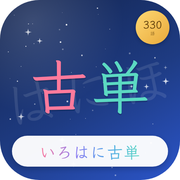
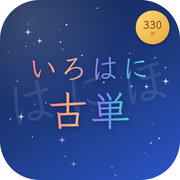
Add files via upload

diff --git a/index.html b/index.html
@@ -4,35 +4,35 @@
 <link rel="preconnect" href="https://fonts.gstatic.com" crossorigin>
 <link href="https://fonts.googleapis.com/css2?family=Klee+One:wght@400;600&family=Zen+Kaku+Gothic+New:wght@400;500;700;900&display=swap" rel="stylesheet">
 <link rel="manifest" href="manifest.webmanifest">
-<meta name="theme-color" content="#2B55C9">
+<meta name="theme-color" content="#FF4F81">
 <meta name="apple-mobile-web-app-capable" content="yes">
 <meta name="apple-mobile-web-app-title" content="いろはに古単">
 <link rel="icon" type="image/png" sizes="512x512" href="icon-512.png">
 <link rel="icon" type="image/png" sizes="192x192" href="icon-192.png">
 <link rel="apple-touch-icon" href="apple-touch-icon.png">
-<style>:root{color-scheme:light}body{margin:0;padding:0;font:14px -apple-system,BlinkMacSystemFont,sans-serif;background:#eef3fd;color:#132245}img{max-width:100%}[hidden]:not([hidden=until-found i]){display:none!important}</style>
+<style>:root{color-scheme:light}body{margin:0;padding:0;font:14px -apple-system,BlinkMacSystemFont,sans-serif;background:#fff1f5;color:#4a2233}img{max-width:100%}[hidden]:not([hidden=until-found i]){display:none!important}</style>
 </head><body>
 <style>
   :root{
-    --bg:#EEF3FD;
+    --bg:#FFF1F5;
     --surface:#FFFFFF;
-    --surface-alt:#E2EBFB;
-    --ink:#132245;
-    --ink-soft:#56648C;
-    --border:#C6D6F5;
-    --border-soft:#E2EBFB;
-    --accent:#2B55C9;
-    --accent-strong:#173C9E;
+    --surface-alt:#FFE1EA;
+    --ink:#4A2233;
+    --ink-soft:#8A5670;
+    --border:#FBC7DA;
+    --border-soft:#FDE0EB;
+    --accent:#FF4F81;
+    --accent-strong:#E23A6B;
     --accent-ink:#FFFFFF;
-    --accent-soft:#DCE6FB;
-    --success:#1E9E6B;
-    --success-soft:#DFF5EA;
-    --success-ink:#0E3F27;
+    --accent-soft:#FFE0EA;
+    --success:#2FA76B;
+    --success-soft:#E1F5E9;
+    --success-ink:#12401F;
     --danger:#E0403F;
     --danger-soft:#FBDEDD;
     --danger-ink:#5C1512;
-    --gold:#B8832A;
-    --shadow: 0 1px 2px rgba(23,60,158,.08), 0 10px 26px rgba(23,60,158,.14);
+    --gold:#C2751E;
+    --shadow: 0 1px 2px rgba(178,40,90,.06), 0 10px 26px rgba(178,40,90,.10);
   }
 
   *{box-sizing:border-box;}
@@ -369,6 +369,11 @@
     color:var(--accent-strong);
     flex:0 0 auto;
   }
+  .choice-text{
+    white-space:pre-line;
+    flex:1 1 auto;
+    min-width:0;
+  }
   .choice-btn.is-correct{
     background:var(--success-soft);
     border-color:var(--success);
@@ -406,7 +411,7 @@
     font-weight:600;
     flex:0 0 auto;
   }
-  .callout-text{ font-weight:600; }
+  .callout-text{ font-weight:600; white-space:pre-line; }
 
   #nextBtn{ width:100%; margin-top:10px; }
 
@@ -464,6 +469,7 @@
     padding:10px 10px;
     border-bottom:1px solid var(--border-soft);
     vertical-align:top;
+    white-space:pre-line;
   }
   table.mistake-table th{
     color:var(--ink-soft);
@@ -861,6 +867,9 @@ try{
 const WORDS = [{"no":1,"w":"おどろく（驚く）","m":"（はっと）気づく／（ふと）目を覚ます","cat":"verb"},{"no":2,"w":"ののしる","m":"大騒ぎする 大声で騒ぐ／評判になる 噂になる","cat":"verb"},{"no":3,"w":"ねんず（念ず）","m":"（心の中で）祈る／我慢する","cat":"verb"},{"no":4,"w":"おぼゆ（覚ゆ）","m":"（自然に）思われる／似る 似ている／思い出される／（人から）思われる","cat":"verb"},{"no":5,"w":"しのぶ（忍ぶ）","m":"＜耐え忍ぶ＞我慢する 恋心を包み隠す／＜人目を忍ぶ＞人目を避ける","cat":"verb"},{"no":6,"w":"ながむ（眺む）","m":"もの思いに沈む （もの思いに沈んで）ぼんやり見る","cat":"verb"},{"no":7,"w":"みゆ（見ゆ）","m":"＜自発の意から＞（自然と）見える おもわれる／姿を見せる 現れる／＜受け身の意から＞（人から）見られる 見せる 結婚する","cat":"verb"},{"no":8,"w":"あふ","m":"結婚する 男女が契る","cat":"verb"},{"no":9,"w":"ゐる（居る）","m":"座る 動かずにいる／＜他の動詞の連用形や助詞「て」について＞〜ている","cat":"verb"},{"no":10,"w":"ありく（歩く）","m":"動き回る 出歩く 外出する／＜動詞の連用形について＞（空間的に）（〜して）まわる （時間的に）（〜し）続ける","cat":"verb"},{"no":11,"w":"あく（飽く）","m":"満足する／＜「飽かず」の形で＞満ち足りない いやにならない","cat":"verb"},{"no":12,"w":"うつくし","m":"かわいらしい／立派だ","cat":"adj"},{"no":13,"w":"かなし","m":"＜愛し＞いとしい かわいい","cat":"adj"},{"no":14,"w":"いみじ","m":"＜連用形「いみじく」「いみじう」の形で＞とても たいそう／＜好ましい場合＞とてもすばらしい とてもうれしい／＜好ましくない場合＞とても悲しい ひどい 大変だ","cat":"adj"},{"no":15,"w":"をかし","m":"趣がある おもしろい／美しい かわいい／滑稽だ","cat":"adj"},{"no":16,"w":"よし","m":"よい すぐれている／＜「よき人」の形で＞身分が高く教養がある","cat":"adj"},{"no":17,"w":"あやし（奇し・怪し/賤し）","m":"＜奇し・怪し＞不思議だ 変だ／＜奇し・怪し＞けしからん よくない／＜賤し＞身分が低い 卑しい／＜賤し＞粗末だ みすぼらしい","cat":"adj"},{"no":18,"w":"おとなし（大人し）","m":"大人らしい 大人びている／年配だ （年長で）主だっている／（年配で）思慮分別がある","cat":"adj"},{"no":19,"w":"ゆかし","m":"見たい 聞きたい 知りたい","cat":"adj"},{"no":20,"w":"おぼつかなし","m":"ぼんやりしている はっきりしない／気がかりだ 不安だ／待ち遠しい もどかしい","cat":"adj"},{"no":21,"w":"ありがたし（有難し）","m":"めったにない／＜めったいにないほど＞立派だ すぐれている","cat":"adj"},{"no":22,"w":"めでたし","m":"すばらしい 立派だ","cat":"adj"},{"no":23,"w":"くちをし（口惜し）","m":"残念だ 期待外れだ","cat":"adj"},{"no":24,"w":"うし（憂し）","m":"つらい いやだ","cat":"adj"},{"no":25,"w":"わびし（侘びし）","m":"つらい 困ったことだ／興ざめだ もの足りない","cat":"adj"},{"no":26,"w":"あわれなり","m":"心底しみじみと感じられる","cat":"adjv"},{"no":27,"w":"おろかなり（疎かなり）","m":"おろそかだ いい加減だ／＜「言ふも」「言へば」に続けて＞（〜という）言葉では言い尽くせない","cat":"adjv"},{"no":28,"w":"ねんごろなり（懇ろなり）","m":"熱心だ 丁寧だ／親しい 親密だ","cat":"adjv"},{"no":29,"w":"つれづれなり（徒然なり）","m":"（することもなく）退屈だ 所在ない 手持ちぶさただ／（一人もの思いに沈む）しんみりともの寂しい","cat":"adjv"},{"no":30,"w":"いたづらなり（徒らなり）","m":"むだだ 役に立たない／手持ち無沙汰で暇だ","cat":"adjv"},{"no":31,"w":"としごろ（年ごろ）","m":"長年 数年（の間）","cat":"noun"},{"no":32,"w":"かたち（形・容貌）","m":"容貌 人の姿","cat":"noun"},{"no":33,"w":"かげ（影）","m":"光／姿 形","cat":"noun"},{"no":34,"w":"ほい（本意）","m":"かねてからの願い 本来の目的 宿願","cat":"noun"},{"no":35,"w":"ものがたり（物語）","m":"話 雑談 世話ばなし／（『竹取物語』『源氏物語』などの）物語","cat":"noun"},{"no":36,"w":"ふみ（文・書）","m":"手紙／漢詩 漢籍 学問","cat":"noun"},{"no":37,"w":"ほど（程）","m":"＜時間の場合＞時 時分 間／＜空間の場合＞あたり 距離 （道のり） 長さ 広さ／＜人間の場合＞身分 身の程 （分際） 年齢 間柄／＜広く一般に＞様子 程度 ほど","cat":"noun"},{"no":38,"w":"なさけ（情け）","m":"思いやり 人情／男女間の情愛 恋情／情趣を解する心 風流心","cat":"noun"},{"no":39,"w":"ちぎり（契り）","m":"約束／前世からの因縁 宿縁／男女の仲 逢瀬","cat":"noun"},{"no":40,"w":"けしき（気色）","m":"様子 そぶり／機嫌／思い 意向","cat":"noun"},{"no":41,"w":"いと","m":"とても たいそう 実に／＜下に打消をともなって＞たいして（〜ない） それほど（〜ない）","cat":"adv"},{"no":42,"w":"あまた","m":"たくさん 数多く","cat":"adv"},{"no":43,"w":"げに","m":"なるほど 本当に","cat":"adv"},{"no":44,"w":"なほ","m":"やはり","cat":"adv"},{"no":45,"w":"やがて","m":"そのまま／すぐに","cat":"adv"},{"no":46,"w":"やうやう","m":"だんだん しだいに","cat":"adv"},{"no":47,"w":"え〜打消","m":"〜できない","cat":"adv"},{"no":48,"w":"な〜そ","m":"〜（する）な 〜（し）てくれるな","cat":"adv"},{"no":49,"w":"さらに〜打消","m":"まったく〜ない 決して〜ない","cat":"adv"},{"no":50,"w":"いかで・いかでか","m":"＜疑問＞どうして（〜か）／＜反語＞どうして（〜か、いや、〜ない）／＜願望＞どうにかして（〜たい・〜てほしい・〜よう）","cat":"adv"},{"no":51,"w":"にほふ（匂ふ）","m":"美しく照り映える 美しく輝く","cat":"verb"},{"no":52,"w":"うつろふ（移ろふ）","m":"色が変わる （色が変わり）紅葉する （葉や花が）散る／（心が）移る 心変わりする","cat":"verb"},{"no":53,"w":"いぬ（往ぬ・去ぬ）","m":"行く 去る／（時が）過ぎ去る","cat":"verb"},{"no":54,"w":"あそぶ（遊ぶ）","m":"管弦を楽しむ","cat":"verb"},{"no":55,"w":"めづ（愛づ）","m":"感嘆する ほめる たたえる／愛する かわいがる 好む","cat":"verb"},{"no":56,"w":"ならふ（慣らふ・馴らふ）","m":"慣れる 習慣となる／親しむ なじむ","cat":"verb"},{"no":57,"w":"かしづく","m":"大切に養育する／大切に世話をする","cat":"verb"},{"no":58,"w":"たのむ（頼む）","m":"＜四段活用＞あてにする 期待する／＜下二段活用＞あてにさせる 期待させる","cat":"verb"},{"no":59,"w":"まもる（守る）","m":"見つめる 見守る","cat":"verb"},{"no":60,"w":"きこゆ（聞こゆ）","m":"聞こえる （自然に）耳に入る／世間に知られる 噂される 評判になる／理解できる 意味がわかる","cat":"verb"},{"no":61,"w":"おこす","m":"よこす 送ってくる","cat":"verb"},{"no":62,"w":"まうく（設く）","m":"準備する 用意する","cat":"verb"},{"no":63,"w":"いらふ（答ふ）","m":"答える 返事をする","cat":"verb"},{"no":64,"w":"わたる（渡る）","m":"行く 来る 通る／＜補助動詞として＞（時間的に）ずっと（〜する） （空間的に）一面に（〜する）／＜「わたらせたまふ」の形で、「あり」「をり」の尊敬語＞いらっしゃる","cat":"verb"},{"no":65,"w":"ぐす（具す）","m":"（引き）連れる つき従える／つき従う 連れ立つ／添える 備える 備わる","cat":"verb"},{"no":66,"w":"とぶらふ（弔ふ・訪ふ）","m":"訪（おとず）れる 訪ねる／見舞う 安否を尋ねる／弔問する 供養する","cat":"verb"},{"no":67,"w":"ものす（物す）","m":"いる ある／行く 来る／何かをする／＜「〜ものしたまふ」の形で＞〜（て）いらっしゃる","cat":"verb"},{"no":68,"w":"わななく","m":"ふるえる","cat":"verb"},{"no":69,"w":"わづらふ","m":"思い悩む 病気になる／苦労する 難儀する／＜補助動詞として＞〜するのに困る 〜しかねる","cat":"verb"},{"no":70,"w":"まどふ（惑ふ）","m":"心が乱れる 途方に暮れる あわてる／＜動詞の連用形について＞ひどく（〜する）","cat":"verb"},{"no":71,"w":"かづく（被く）","m":"＜四段活用＞（褒美を）いただく かぶる／＜下二段活用＞（ほうびを）与える かぶせる","cat":"verb"},{"no":72,"w":"うす（失す）","m":"消える 無くなる／亡くなる 死ぬ","cat":"verb"},{"no":73,"w":"おこなふ（行ふ）","m":"仏道の修行をする 勤行する","cat":"verb"},{"no":74,"w":"おもしろし","m":"（景色などが）すばらしい 趣がある／興趣がある 興味深い","cat":"adj"},{"no":75,"w":"あらまほし","m":"理想的だ 好ましい","cat":"adj"},{"no":76,"w":"やむごとなし","m":"高貴だ 尊い 大切だ／この上ない 並々でない","cat":"adj"},{"no":77,"w":"ゆゆし","m":"不吉だ 不吉なほど美しい 恐ろしい／すばらしい 立派だ／はなはだしい 重大だ 大変だ","cat":"adj"},{"no":78,"w":"かしこし（畏し・怖し/賢し）","m":"＜畏し・恐し＞おそれ多い もったいない／＜賢し＞すばらしい 立派だ 好都合だ／＜連用形「かしこく」の形で＞非常に","cat":"adj"},{"no":79,"w":"うるはし","m":"端正だ きちんとしている 立派だ／親しい","cat":"adj"},{"no":80,"w":"はかなし","m":"頼りない あっけない むなしい／ちょっとした とるに足りない","cat":"adj"},{"no":81,"w":"はかばかし","m":"しっかりしている 頼もしい／はっきりしている 際立っている","cat":"adj"},{"no":82,"w":"やさし","m":"優雅だ 上品だ 風流だ／けなげだ 殊勝だ 感心だ","cat":"adj"},{"no":83,"w":"いはけなし","m":"幼い あどけない","cat":"adj"},{"no":84,"w":"かたはらいたし","m":"見苦しい 苦々しい／気の毒だ 心苦しい／恥ずかしい きまりが悪い／はかばかしい 笑止千万だ","cat":"adj"},{"no":85,"w":"こころもとなし（心もとなし）","m":"待ち遠しい じれったい／不安だ 心配だ／はっきりしない ぼんやりしている","cat":"adj"},{"no":86,"w":"いとほし","m":"かわいそうだ 気の毒だ／かわいい いとしい","cat":"adj"},{"no":87,"w":"あさまし","m":"驚きあきれるほどだ／あきれるほどひどい／情けない 嘆かわしい","cat":"adj"},{"no":88,"w":"いたし","m":"＜連用形「いたく」「いたう」の形で＞とても たいそう／＜打消をともなって＞たいして〜（〜ない） それほど（〜ない）／すばらしい","cat":"adj"},{"no":89,"w":"つれなし","m":"平然としている 素知らぬふりをしている／冷淡だ 薄情だ／何の変化もない もとのままだ","cat":"adj"},{"no":90,"w":"あいなし","m":"筋違いだ 具合が悪い／つまらない おもしろくない／＜連用形「あいなく」「あいなう」の形で＞むやみに わけもなく","cat":"adj"},{"no":91,"w":"あぢきなし","m":"どうにもならない 無益だ／つまらない 苦々しい","cat":"adj"},{"no":92,"w":"さがなし","m":"性質が良くない 意地が悪い／いたずらだ","cat":"adj"},{"no":93,"w":"すさまじ","m":"興醒めだ／殺風景だ 荒涼としている","cat":"adj"},{"no":94,"w":"いふかひなし（言ふ甲斐なし）","m":"どうしようもない 言っても仕方がない／取るに足りない たわいない／ひどい ふがいない","cat":"adj"},{"no":95,"w":"よしなし","m":"関係がない いわれがない 理由がない／方法がない しかたがない／つまらない かいがない","cat":"adj"},{"no":96,"w":"びんなし（便無し）","m":"都合が悪い 不都合だ／困ったことだ 感心しない","cat":"adj"},{"no":97,"w":"ざうざうし","m":"物足りない 心寂しい","cat":"adj"},{"no":98,"w":"むつかし","m":"うっとうしい 不快だ／わずらわしい 面倒だ／むさくるしい 見苦しい","cat":"adj"},{"no":99,"w":"あてなり（貴なり）","m":"身分が高い 高貴だ／上品だ 優美だ","cat":"adjv"},{"no":100,"w":"きよらなり（清らなり）","m":"美しい 華麗だ","cat":"adjv"},{"no":101,"w":"さらなり（更なり）","m":"＜「言へば」「言ふも」につづけて＞（いまさら）言うまでもない もちろんだ／＜「言へば」「言ふも」を省略して＞（いまさら）言うまでもない もちろんだ","cat":"adjv"},{"no":102,"w":"あらはなり（顕なり）","m":"丸見えだ／明らかだ","cat":"adjv"},{"no":103,"w":"あからさまなり","m":"ちょっとの間だ ちょっと","cat":"adjv"},{"no":104,"w":"かたくななり（頑ななり）","m":"情趣を解さない 教養がない／見苦しい みっともない","cat":"adjv"},{"no":105,"w":"あだなり（徒なり）","m":"はかない むなしい／不誠実だ 浮気だ","cat":"adjv"},{"no":106,"w":"すずろなり（漫ろなり）","m":"あてもない わけもない／思いがけない 無関係だ つまらない／＜多く連用形「すずろに」にの形で＞むやみに","cat":"adjv"},{"no":107,"w":"むげなり（無下なり）","m":"まったくひどい 最低だ／＜「むげに」の形で＞むやみに （下に打消をともない）まったく（〜ない）","cat":"adjv"},{"no":108,"w":"おほやけ（公）","m":"朝廷／天皇","cat":"noun"},{"no":109,"w":"きは（際）","m":"身分 分際／程度","cat":"noun"},{"no":110,"w":"しるし（験・徴）","m":"＜験＞（神仏の）ご利益 霊験／＜験＞効果 効き目／＜徵＞前兆 兆候","cat":"noun"},{"no":111,"w":"ことわり（理）","m":"道理","cat":"noun"},{"no":112,"w":"ためし（例）","m":"例 先例 手本／語り草 話のたね","cat":"noun"},{"no":113,"w":"わざ（業）","m":"仏事 法事／＜形式名詞として＞こと 行い","cat":"noun"},{"no":114,"w":"おぼえ（覚え）","m":"評判 人望／＜多く「御おぼえ」の形で＞寵愛（を受けること）","cat":"noun"},{"no":115,"w":"ここち（心地）","m":"気持ち 感じ／病気 体調","cat":"noun"},{"no":116,"w":"うつつ（現）","m":"現実／正気","cat":"noun"},{"no":117,"w":"つとめて","m":"早朝／翌朝","cat":"noun"},{"no":118,"w":"つごもり（晦・晦日）","m":"月末 月の下旬","cat":"noun"},{"no":119,"w":"ついで","m":"（物事の）順序 順番／機会 折","cat":"noun"},{"no":120,"w":"たより（頼り・便り）","m":"頼れるもの よりどころ／縁故 つて／便宜 手段／機会 ついで","cat":"noun"},{"no":121,"w":"こころざし（志）","m":"＜相手に寄せる心＞愛情 誠意／贈り物 謝礼","cat":"noun"},{"no":122,"w":"よし（由）","m":"縁 関係 いわれ／方法 手段／由緒 風情 品／事情 旨 こと／そぶり ようす","cat":"noun"},{"no":123,"w":"よろづ（万）","m":"さまざまなこと あらゆること／＜副詞として＞すべて 万事につけて","cat":"noun"},{"no":124,"w":"て（手）","m":"筆跡 書 文字／演奏法 曲","cat":"noun"},{"no":125,"w":"ざえ（才）","m":"学問 （漢学の）学識 （音楽の）才能","cat":"noun"},{"no":126,"w":"おのづから（自ら）","m":"自然に ひとりでに／偶然に たまたま／＜家庭・推量の表現をともなって＞万一 ひょっとすると","cat":"adv"},{"no":127,"w":"すなはち（即ち・則ち）","m":"すぐに そのまま","cat":"adv"},{"no":128,"w":"とく（疾く）","m":"早く すぐに／すでに とっくに","cat":"adv"},{"no":129,"w":"いつしか","m":"早く（〜したい・〜してほしい）／早くも","cat":"adv"},{"no":130,"w":"なべて","m":"総じて おしなべて／普通 並","cat":"adv"},{"no":131,"w":"いとど","m":"いっそう ますます","cat":"adv"},{"no":132,"w":"かく","m":"このように","cat":"adv"},{"no":133,"w":"とかく","m":"あれこれと 何やかやと","cat":"adv"},{"no":134,"w":"しか","m":"そう そのように","cat":"adv"},{"no":135,"w":"さ","m":"そう そのように","cat":"adv"},{"no":136,"w":"さばかり","m":"その程度 それほど／非常に たいそう","cat":"adv"},{"no":137,"w":"さながら","m":"そのまま もとのまま／全部 すべて","cat":"adv"},{"no":138,"w":"つゆ〜打消","m":"少しも〜ない まったく〜ない","cat":"adv"},{"no":139,"w":"よも〜じ","m":"まさか〜ないだろう よもや〜まい","cat":"adv"},{"no":140,"w":"なかなか","m":"かえって むしろ","cat":"adv"},{"no":141,"w":"さすがに","m":"そうはいってもやはり","cat":"adv"},{"no":142,"w":"かつ","m":"一方では／すぐに 次から次へと","cat":"adv"},{"no":143,"w":"など・などか","m":"＜疑問＞どうして（〜か）／＜反語＞どうして（〜か、いや、〜ない）","cat":"adv"},{"no":144,"w":"なでふ・なんでふ","m":"＜疑問＞どうして（〜か）／＜反語＞どうして（〜か、いや、〜ない）","cat":"adv"},{"no":145,"w":"ありし・ありつる","m":"＜「ありし」の形で＞かつての 以前の／＜「ありつる」の形で＞さっきの 先程の","cat":"other"},{"no":146,"w":"れいの（例の）","m":"＜用言を修飾して＞いつものように／＜体言を修飾して＞いつもの","cat":"other"},{"no":147,"w":"おとにきく（音に聞く）","m":"噂に聞く 人づてに聞く／評判が高い 有名だ","cat":"other"},{"no":148,"w":"いかがせむ（いかがはせむ）","m":"＜疑問＞どうしようか／＜反語＞どうしようもない","cat":"other"},{"no":149,"w":"さるべき","m":"（そうするのが）適当な ふさわしい／そうなるはずの そうなる運命の／立派な それ相応の","cat":"other"},{"no":150,"w":"いざたまへ（いざ給へ）","m":"さあ（一緒に）いらっしゃい さあ、どうぞ","cat":"other"},{"no":151,"w":"のたまふ（のたまはす 宣ふ・宣はす）","m":"＜「言ふ」の尊敬語＞おっしゃる","cat":"keigo"},{"no":152,"w":"おほす（仰す）","m":"＜「言ふ」の尊敬語＞おっしゃる","cat":"keigo"},{"no":153,"w":"きこしめす（聞こし召す）","m":"＜「聞く」の尊敬語＞お聞きになる／＜「食ふ」「飲む」の尊敬語＞召し上がる","cat":"keigo"},{"no":154,"w":"ごらんず（御覧ず）","m":"＜「見る」の尊敬語＞ご覧になる","cat":"keigo"},{"no":155,"w":"まうす（申す）","m":"＜「言ふ」の謙譲語＞申し上げる／＜謙譲の補助動詞＞（お）〜申し上げる お〜する","cat":"keigo"},{"no":156,"w":"きこゆ（きこえさす 聞こゆ/聞こえさす）","m":"＜「言ふ」の謙譲語＞申し上げる （手紙などを）差し上げる／＜謙譲の補助動詞＞（お）〜申し上げる お〜する","cat":"keigo"},{"no":157,"w":"おはす（おはします）","m":"＜「あり」「をり」の尊敬語＞いらっしゃる／＜「行く」「来」の尊敬語＞いらっしゃる／＜尊敬の補助動詞＞〜ていらっしゃる","cat":"keigo"},{"no":158,"w":"おぼす（おぼしめす 思す/思し召す）","m":"＜「思ふ」の尊敬語＞お思いになる","cat":"keigo"},{"no":159,"w":"たまふ（賜ふ・給ふ ＜ハ行四段＞）","m":"＜「与ふ」の尊敬語＞御与えになる くださる／＜尊敬の補助動詞＞お〜になる 〜なさる 〜てくださる","cat":"keigo"},{"no":160,"w":"たまふ（賜ふ・給ふ ＜ハ行下二段＞）","m":"＜謙譲の補助動詞＞〜ております 〜させていただく","cat":"keigo"},{"no":161,"w":"たまはす（賜はす）","m":"＜「与ふ」の尊敬語＞お与えになる","cat":"keigo"},{"no":162,"w":"たまはる（賜はる・給はる）","m":"＜「受く」「もらふ」の謙譲語＞いただく 頂戴する","cat":"keigo"},{"no":163,"w":"うけたまはる（承る）","m":"＜「受く」の謙譲語＞お受けする 承諾し申し上げる／＜「聞く」の謙譲語＞お聞きする","cat":"keigo"},{"no":164,"w":"たてまつる（奉る）","m":"＜「与ふ」の謙譲語＞差し上げる／＜謙譲の補助動詞＞（お）〜申し上げる お〜する／＜「着る」「乗る」「食ふ・飲む」の尊敬語＞お召しになる お乗りになる 召し上がる","cat":"keigo"},{"no":165,"w":"はべり（侍り）","m":"＜「あり」「をり」の謙譲語＞（高貴な方のおそばに）お仕えする 伺候する／＜「あり」「をり」の丁寧語＞あります おります ございます／＜丁寧語の補助動詞＞〜（ござい）ます 〜です","cat":"keigo"},{"no":166,"w":"さぶらふ（候ふ）","m":"＜「あり」「をり」の謙譲語＞（高貴な方のおそばに）お仕えする 伺候する／＜「あり」「をり」の丁寧語＞あります おります ございます／＜丁寧語の補助動詞＞〜ございます 〜です","cat":"keigo"},{"no":167,"w":"めす（召す）","m":"＜「呼び寄す」「取り寄す」の尊敬語＞（人をそばに）お呼び寄せになる （物をそばに）お取り寄せになる／＜「食ふ」「飲む」の尊敬語＞召し上がる／＜「着る」の尊敬語＞お召しになる／＜「乗る」の尊敬語＞お乗りになる","cat":"keigo"},{"no":168,"w":"まうづ（詣づ）","m":"＜「行く」の謙譲語＞参上する うかがう／＜寺社に「行く」の謙譲語＞参詣する お参りする","cat":"keigo"},{"no":169,"w":"まゐる（参る）","m":"＜「行く」「来」の謙譲語＞参上する／＜「与ふ」の謙譲語＞差し上げる／＜「す」の謙譲語＞（高貴な方に何かを）し申し上げる して差し上げる／＜「食ふ」「飲む」の尊敬語＞召し上がる","cat":"keigo"},{"no":170,"w":"まゐらす（参らす）","m":"＜「与ふ」の謙譲語＞差し上げる／＜謙譲の補助動詞＞（お）〜申し上げる お〜する","cat":"keigo"},{"no":171,"w":"まかる（罷る）","m":"＜「出づ」の謙譲語＞退出する おいとまする／＜「行く」の丁寧語＞参ります 出かけます／＜他の動詞の上につき、謙譲・丁寧のいを表す＞〜申す 〜ます","cat":"keigo"},{"no":172,"w":"まかづ（罷づ）","m":"＜「出づ」の謙譲語＞退出する おいとまする／＜「行く」の丁寧語＞出かけます 参ります","cat":"keigo"},{"no":173,"w":"つかはす（遣はす）","m":"＜「遣る」の尊敬語＞（使者として）おやりになる おつかわしになる／＜「与ふ」「贈る」の尊敬語＞お与えになる お贈りになる／＜敬意を含まない＞贈る 行かせる やる","cat":"keigo"},{"no":174,"w":"あそばす（遊ばす）","m":"（音楽の）演奏をなさる （詩歌を）お詠みになる／＜身分の高い人の行為一般に敬意を表して＞〜（を）なさる","cat":"keigo"},{"no":175,"w":"つかうまつる（仕うまつる）","m":"＜「仕ふ」の謙譲語＞お仕え申し上げる／＜「す」の謙譲語＞（高貴な方に何かを）し申し上げる いたす／＜謙譲の補助動詞＞（お）〜申し上げる お〜する","cat":"keigo"},{"no":176,"w":"おほとのごもる（大殿籠る）","m":"＜「寝」「寝ぬ」の尊敬語＞おやすみになる","cat":"keigo"},{"no":177,"w":"しろしめす","m":"＜「知る」の尊敬語＞ご存知である 知っていらっしゃる／＜「領る」の尊敬語＞お治めになる 領有なさる","cat":"keigo"},{"no":178,"w":"行幸・行啓・御幸","m":"＜行幸＞天皇のおでかけ／＜行啓＞皇后・皇太子などのお出かけ／＜御幸＞上皇・法皇・女院のお出かけ","cat":"keigo"},{"no":179,"w":"そうす（奏す）","m":"＜「言ふ」の謙譲語＞（天皇・上皇に）申し上げる 奏上する","cat":"keigo"},{"no":180,"w":"けいす（啓す）","m":"＜「言ふ」の謙譲語＞（皇后・皇太子に）申し上げる","cat":"keigo"},{"no":181,"w":"しる（領る）","m":"（土地を）領有する （国を）治める","cat":"verb"},{"no":182,"w":"あくがる","m":"さまよい出る／（魂が）宙に彷徨う／（心が）うわの空になる","cat":"verb"},{"no":183,"w":"やすらふ（休らふ）","m":"立ち止まる とどまる／ためらう 躊躇する","cat":"verb"},{"no":184,"w":"うちいづ（うち出づ）","m":"口に出して言う","cat":"verb"},{"no":185,"w":"やつす","m":"地味な格好にする 目立たない様子をする","cat":"verb"},{"no":186,"w":"おとなふ（音なふ）","m":"音を立てる 声を立てる／手紙を出す 訪れる","cat":"verb"},{"no":187,"w":"そばむ（側む）","m":"横を向く","cat":"verb"},{"no":188,"w":"かたらふ（語らふ）","m":"交際する 親しくする","cat":"verb"},{"no":189,"w":"すむ（住む）","m":"（男が女のもとに）通う","cat":"verb"},{"no":190,"w":"さはる（障る）","m":"妨げられる 差し支える","cat":"verb"},{"no":191,"w":"あるじす（饗す）","m":"客にごちそうする 客をもてなす","cat":"verb"},{"no":192,"w":"もてなす","m":"振る舞う／取り扱う 取り計らう／もてはやす 大切に扱う","cat":"verb"},{"no":193,"w":"きようず（興ず）","m":"面白がる","cat":"verb"},{"no":194,"w":"およすぐ","m":"成長する 大人になる／大人びる ませる","cat":"verb"},{"no":195,"w":"ときめく（時めく）","m":"寵愛を受ける 時流に乗って栄える","cat":"verb"},{"no":196,"w":"さる（避る）","m":"避ける 逃れる／断る 辞退する","cat":"verb"},{"no":197,"w":"こうず（困ず）","m":"疲れる 疲労する","cat":"verb"},{"no":198,"w":"掻き暗す","m":"悲しみが心を暗くする 涙が目の前を暗くする","cat":"verb"},{"no":199,"w":"うれふ（憂ふ・愁ふ）","m":"訴える 悲しみなげく","cat":"verb"},{"no":200,"w":"かこつ（託つ）","m":"不平を言う 文句を言う","cat":"verb"},{"no":201,"w":"いたはる（労る）","m":"病気になる 疲労する／骨を折る 苦労する／世話をする","cat":"verb"},{"no":202,"w":"ためらふ","m":"静養する 病勢を抑える／気を静める 感情を抑える","cat":"verb"},{"no":203,"w":"おこたる（怠る）","m":"病気が良くなる 病気が快方に向かう","cat":"verb"},{"no":204,"w":"なやむ（悩む）","m":"病気で苦しむ 気分がすぐれなくなる","cat":"verb"},{"no":205,"w":"おくる（遅る・後る）","m":"先立たれる 先に死なれる","cat":"verb"},{"no":206,"w":"したたむ（認む）","m":"処理する 整理する／用意する 準備する／取り締まる 治める","cat":"verb"},{"no":207,"w":"あたらし（惜し）","m":"もったいない 惜しい","cat":"adj"},{"no":208,"w":"かたじけなし","m":"恐れ多い もったいない／ありがたい もったいない","cat":"adj"},{"no":209,"w":"をこがまし（痴がまし）","m":"愚かしい みっともない","cat":"adj"},{"no":210,"w":"こころにくし（心憎し）","m":"奥ゆかしい","cat":"adj"},{"no":211,"w":"さかし（賢し）","m":"かしこい 賢明だ／気が利いている 才気がある／気がしっかりしている 気丈だ／こざかしい","cat":"adj"},{"no":212,"w":"すきずきし（好き好きし）","m":"好色めいている 色好みだ／風流だ 物好きだ","cat":"adj"},{"no":213,"w":"なまめかし","m":"優美だ みずみずしい","cat":"adj"},{"no":214,"w":"いまめかし（今めかし）","m":"現代風だ 当世風だ／華やかだ 目新しい","cat":"adj"},{"no":215,"w":"しどけなし","m":"無造作だ 気楽なかんじだ／乱れている だらしがない","cat":"adj"},{"no":216,"w":"つきづきし","m":"似つかわしい ふさわしい","cat":"adj"},{"no":217,"w":"なつかし","m":"好ましい 感じが良い","cat":"adj"},{"no":218,"w":"めやすし（目安し）","m":"見苦しくない 感じよい","cat":"adj"},{"no":219,"w":"こころやすし（心安し）","m":"安心だ／気楽だ 気安い","cat":"adj"},{"no":220,"w":"うしろめたし（後ろめたし）","m":"心配だ 気がかりだ","cat":"adj"},{"no":221,"w":"こころぐるし（心苦し）","m":"つらい 心配だ／気の毒だ 見ていてつらい","cat":"adj"},{"no":222,"w":"まばゆし","m":"見ていられない 目を背けたいほどだ／恥ずかしい 照れくさい","cat":"adj"},{"no":223,"w":"はづかし（恥づかし）","m":"（こちらが気後れするほど）立派だ すぐれている","cat":"adj"},{"no":224,"w":"つたなし（拙し）","m":"下手だ 拙劣だ／劣っている 凡庸だ／下品だ 見苦しい／不運だ 運が悪い","cat":"adj"},{"no":225,"w":"こちたし","m":"仰々しい はなはだしい","cat":"adj"},{"no":226,"w":"さうなし（左右無し）","m":"ためらわない 無造作だ","cat":"adj"},{"no":227,"w":"ところせし（所狭し）","m":"いっぱいだ あふれるくらいだ／窮屈だ 不自由だ／大袈裟だ 仰々しい","cat":"adj"},{"no":228,"w":"つつまし（慎まし）","m":"気がひける 気恥ずかしい","cat":"adj"},{"no":229,"w":"まさなし","m":"よくない 不都合だ／見苦しい みっともない","cat":"adj"},{"no":230,"w":"ねたし（妬し）","m":"しゃくにさわる 憎らしい","cat":"adj"},{"no":231,"w":"まだし","m":"まだ時期が早い 時期尚早だ／不十分だ 未熟だ","cat":"adj"},{"no":232,"w":"はしたなし","m":"不釣り合いだ／無愛想だ／はげしい 強い／きまりが悪い 体裁が悪い","cat":"adj"},{"no":233,"w":"わりなし","m":"道理にあわない 無理だ／並々ではない はなはだしい／耐え難い つらい／しかたがない やむをえない","cat":"adj"},{"no":234,"w":"ずちなし（術無し）","m":"どうしようもない しかたがない","cat":"adj"},{"no":235,"w":"あへなし","m":"あっけない はりあいがない （今更）どうしようもない","cat":"adj"},{"no":236,"w":"くまなし（隈無し）","m":"暗いところがない 影の部分がない／行き届かないところがない いたらないところがない","cat":"adj"},{"no":237,"w":"めざまし","m":"気に食わない 不愉快だ","cat":"adj"},{"no":238,"w":"こころづきなし（心付きなし）","m":"気に入らない 気に食わない","cat":"adj"},{"no":239,"w":"ゆくりなし","m":"突然だ 思いがけない","cat":"adj"},{"no":240,"w":"あつし（篤し）","m":"病状が重い 病弱である","cat":"adj"},{"no":241,"w":"あながちなり（強ちなり）","m":"無理矢理だ 強引だ／無闇だ はなはだしい","cat":"adjv"},{"no":242,"w":"なめげなり","m":"無礼だ 無作法だ","cat":"adjv"},{"no":243,"w":"なのめなり","m":"並一通りだ ありきたりだ／いい加減だ おろそかだ","cat":"adjv"},{"no":244,"w":"おぼろけなり","m":"並一通りだ ありきたりだ／並々ではない 格別だ","cat":"adjv"},{"no":245,"w":"あやにくなり","m":"（思いに反して）ひどい （思いに反して）はなはだしい","cat":"adjv"},{"no":246,"w":"まめやかなり","m":"まじめだ 本気だ／実生活向きだ 実用的だ／本格的だ 本式だ","cat":"adjv"},{"no":247,"w":"せちなり（切なり）","m":"切実だ 身にしみる／大切だ 切迫している／＜「せちに」の形で＞ひたすら いちずに","cat":"adjv"},{"no":248,"w":"よそなり","m":"無縁だ 無関係だ","cat":"adjv"},{"no":249,"w":"うちつけなり","m":"突然だ だしぬけだ／軽率だ 無礼だ","cat":"adjv"},{"no":250,"w":"とみなり（頓なり）","m":"急だ／＜「とみに」の形で＞すぐに","cat":"adjv"},{"no":251,"w":"みそかなり（密かなり）","m":"ひそかだ","cat":"adjv"},{"no":252,"w":"こまやかなり","m":"心を込めている 丁寧だ／色が濃い／繊細で美しい","cat":"adjv"},{"no":253,"w":"らうたげなり","m":"かわいらしい 可憐だ","cat":"adjv"},{"no":254,"w":"いうなり（優なり）","m":"優美だ 優れている","cat":"adjv"},{"no":255,"w":"うち（内裏）","m":"宮中 内裏／天皇 帝","cat":"noun"},{"no":256,"w":"うへ（上）","m":"天皇 帝／奥様 奥方／御座所 貴人のいる所","cat":"noun"},{"no":257,"w":"しな（品）","m":"身分 家柄","cat":"noun"},{"no":258,"w":"ふるさと（古里）","m":"古都 旧都／なじみのある土地／実家 我が家","cat":"noun"},{"no":259,"w":"こころばへ（心延へ）","m":"心遣い 配慮／性格 性質／趣 風情","cat":"noun"},{"no":260,"w":"ひま（隙）","m":"隙間／絶え間／すき 機会","cat":"noun"},{"no":261,"w":"ひがごと（僻事）","m":"間違い 過ち","cat":"noun"},{"no":262,"w":"とが（咎・科）","m":"欠点 短所／罪 過ち","cat":"noun"},{"no":263,"w":"そらごと（空言・虚言）","m":"嘘 偽り","cat":"noun"},{"no":264,"w":"せうそこ（消息）","m":"手紙 伝言／訪問 来意を告げること","cat":"noun"},{"no":265,"w":"くもゐ（雲居）","m":"宮中 都／天上 空／遠く離れた所 はるか遠い所","cat":"noun"},{"no":266,"w":"かしこまり（畏まり）","m":"お礼／お詫び／謹慎","cat":"noun"},{"no":267,"w":"よ・よのなか（世・世の中）","m":"男女の仲 夫婦の仲","cat":"noun"},{"no":268,"w":"かぎり（限り）","m":"（人生の）最期 最後／すべて 全部／だけ ばかり","cat":"noun"},{"no":269,"w":"ここら・そこら","m":"たくさん","cat":"adv"},{"no":270,"w":"かたみに（互に）","m":"互いに","cat":"adv"},{"no":271,"w":"わざと","m":"わざわざ／特別に とりわけ／＜「わざとの」の形で＞本格的な 本式の","cat":"adv"},{"no":272,"w":"うたて","m":"いやなことに 不快に","cat":"adv"},{"no":273,"w":"かねて（予ねて）","m":"前もって 前から／＜日数を示す語の下について＞〜前から","cat":"adv"},{"no":274,"w":"やをら","m":"そっと 静かに","cat":"adv"},{"no":275,"w":"よもすがら（夜もすがら）","m":"一晩中 夜通し","cat":"adv"},{"no":276,"w":"ゆめ・ゆめゆめ〜打消・禁止","m":"まったく〜ない 少しも〜ない／決して〜（し）てはいけない 断じて〜（し）てはいけない","cat":"adv"},{"no":277,"w":"をさをさ〜打消","m":"ほとんど〜ない めったに〜ない","cat":"adv"},{"no":278,"w":"あなかま","m":"しっ、静かに ああ、うるせぇ","cat":"adv"},{"no":279,"w":"かちより（徒歩より）","m":"歩いて 徒歩で","cat":"adv"},{"no":280,"w":"けしからず","m":"異様だ 変だ","cat":"adv"},{"no":281,"w":"おもひやる（思ひ遣る）","m":"想像する 思いを馳せる","cat":"verb"},{"no":282,"w":"おきつ（掟つ）","m":"あらかじめ決める 決めておく／指図する 命令する","cat":"verb"},{"no":283,"w":"すまふ（争ふ・辞ふ）","m":"抵抗する 断る","cat":"verb"},{"no":284,"w":"さす（鎖す）","m":"閉める 鍵をかける／＜動詞の連用形について＞途中で〜（する）のをやめる","cat":"verb"},{"no":285,"w":"しほたる（潮垂る）","m":"涙で袖が濡れる 涙を流す","cat":"verb"},{"no":286,"w":"たばかる（謀る）","m":"工夫する 一計を案じる／だます 誤魔化す","cat":"verb"},{"no":287,"w":"まつりごつ（政ごつ）","m":"政治をおこなう","cat":"verb"},{"no":288,"w":"らうらうじ（労労じ）","m":"物馴れている 才たけている／気品がある 洗練されている","cat":"adj"},{"no":289,"w":"むくつけし","m":"不気味だ 気味が悪い","cat":"adj"},{"no":290,"w":"おほけなし","m":"身の程知らずだ 分不相応だ","cat":"adj"},{"no":291,"w":"いぶせし","m":"気が晴れない","cat":"adj"},{"no":292,"w":"しるし（著し）","m":"明白だ 明瞭だ／＜「〜もしるく」の形で＞〜もその通りに 〜もてきめんに","cat":"adj"},{"no":293,"w":"こよなし","m":"格段である 格段の差がある／格段に劣っている","cat":"adj"},{"no":294,"w":"くやし（悔し）","m":"悔やまれる 後悔される","cat":"adj"},{"no":295,"w":"たのし（楽し）","m":"裕福だ 豊かだ","cat":"adj"},{"no":296,"w":"おもはずなり（思はずなり）","m":"思いがけない 意外だ","cat":"adjv"},{"no":297,"w":"ことなり（異なり）","m":"別である 他と違う／＜「こと＋名詞」の形で＞違う〜 異なる〜","cat":"adjv"},{"no":298,"w":"いろ（色）","m":"情趣 風情／恋愛 異性","cat":"noun"},{"no":299,"w":"こころ（心）","m":"情趣を解する心 風流心","cat":"noun"},{"no":300,"w":"ゆゑ（故）","m":"理由 わけ／品格 由緒／風情 趣","cat":"noun"},{"no":301,"w":"あない（案内）","m":"内情","cat":"noun"},{"no":302,"w":"さた（沙汰）","m":"評議 評定／指図 命令／処置 始末","cat":"noun"},{"no":303,"w":"やう（様）","m":"わけ 事情／手段 方法／こと 様子","cat":"noun"},{"no":304,"w":"あらまし","m":"計画 予定 願い","cat":"noun"},{"no":305,"w":"いそぎ（急ぎ）","m":"準備 用意","cat":"noun"},{"no":306,"w":"つま（端）","m":"先 端／きっかけ 糸口","cat":"noun"},{"no":307,"w":"はらから（同胞）","m":"兄弟姉妹","cat":"noun"},{"no":308,"w":"けぢめ","m":"区別 ちがい","cat":"noun"},{"no":309,"w":"そのかみ（其の上）","m":"その時／その昔","cat":"noun"},{"no":310,"w":"ただびと（徒人・直人）","m":"臣下／普通の貴族","cat":"noun"},{"no":311,"w":"をりふし（折節）","m":"ちょうどその時 折も折／＜名詞として＞その時々 折々 季節","cat":"noun"},{"no":312,"w":"はやく（早く）","m":"以前 昔／すでに とっくに／＜「はやく〜けり」の形で＞なんとまあ 実は","cat":"adv"},{"no":313,"w":"つくづくと","m":"しんみりと しみじみと","cat":"adv"},{"no":314,"w":"せめて","m":"無理矢理 しいて／非常に きわめて","cat":"adv"},{"no":315,"w":"さりとて","m":"いくらなんでも それにしても","cat":"adv"},{"no":316,"w":"さて","m":"そのまま その様な状態で／＜「さての」の形で＞そのほかの それ以外の","cat":"adv"},{"no":317,"w":"おほかた〜打消","m":"まったく〜ない 少しも〜ない","cat":"adv"},{"no":318,"w":"かまへて","m":"注意して 気をつけて／ぜひとも／けっして","cat":"adv"},{"no":319,"w":"させる","m":"たいした これといった","cat":"other"},{"no":320,"w":"さはれ","m":"どうにでもなれ ままよ","cat":"other"},{"no":321,"w":"いとしもなし","m":"たいしたことはない","cat":"adv"},{"no":322,"w":"かずならず（数ならず）","m":"取るに足りない 物の数ではない","cat":"adv"},{"no":323,"w":"いかにぞや（如何にぞや）","m":"あまり感心しない どんなものか","cat":"adv"},{"no":324,"w":"さればよ（さればこそ）","m":"思った通りだ 案の定だ","cat":"adv"},{"no":325,"w":"よのつねなり（世の常なり）","m":"ありきたりだ 普通だ／月並みな表現","cat":"adjv"},{"no":326,"w":"ただならず","m":"様子が普通ではない／心が平静ではない／＜「ただならずなる」の形で＞妊娠する 懐妊する","cat":"adjv"},{"no":327,"w":"ものもおぼえず（物も覚えず）","m":"呆然としている われを失っている／道理をわきまえない","cat":"adv"},{"no":328,"w":"ひとやりならず（人遣りならず）","m":"他のせいではなく、自分の心からする","cat":"adjv"},{"no":329,"w":"またのひ（又の日）","m":"翌日 次の日","cat":"noun"},{"no":330,"w":"〜あへず","m":"最後まで〜しきれない","cat":"adv"}];
 
 const $ = id => document.getElementById(id);
+// word meanings combine several senses with "／" — show each on its own
+// line instead of running them together, for easier reading on a phone.
+function formatMeaning(m){ return (m||'').replace(/／/g, '\n'); }
 const NUM_CHOICES = 6;
 const CIRCLED = ['①','②','③','④','⑤','⑥'];
 const TIME_LIMITS = {timed3:3000, timed5:5000, timed7:7000};
@@ -1242,7 +1251,7 @@ function renderWeakScreen(){
       `<td class="count">${item.wrongTotal}回</td>` +
       `<td class="count">${item.trainCorrect}/${WEAK_MASTERY_SETS}</td>`;
     tr.children[1].textContent = item.word.w;
-    tr.children[2].textContent = item.word.m;
+    tr.children[2].textContent = formatMeaning(item.word.m);
     tbody.appendChild(tr);
   });
   table.appendChild(tbody);
@@ -1541,7 +1550,7 @@ function renderQuestion(){
     numSpan.textContent = CIRCLED[i];
     const textSpan = document.createElement('span');
     textSpan.className = 'choice-text';
-    textSpan.textContent = text;
+    textSpan.textContent = formatMeaning(text);
     btn.appendChild(numSpan);
     btn.appendChild(textSpan);
     btn.addEventListener('click', ()=> selectAnswer(i));
@@ -1572,7 +1581,7 @@ function injectRepeats(word){
 function showCorrectAnswerCallout(){
   const idx = currentOptions.correctPos;
   $('calloutNum').textContent = CIRCLED[idx];
-  $('calloutText').textContent = currentOptions.options[idx];
+  $('calloutText').textContent = formatMeaning(currentOptions.options[idx]);
   $('answerCallout').hidden = false;
 }
 
@@ -1716,7 +1725,7 @@ function renderResult(){
       `<td></td>` +
       `<td class="count">${m.count}回</td>`;
     tr.children[1].textContent = m.word.w;
-    tr.children[2].textContent = m.word.m;
+    tr.children[2].textContent = formatMeaning(m.word.m);
     tbody.appendChild(tr);
   });
   table.appendChild(tbody);
